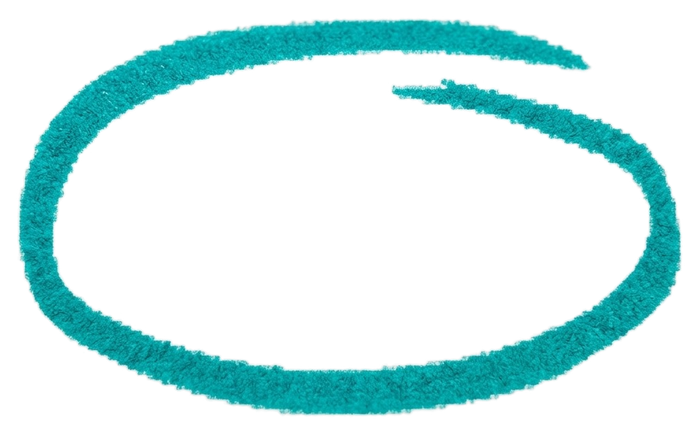
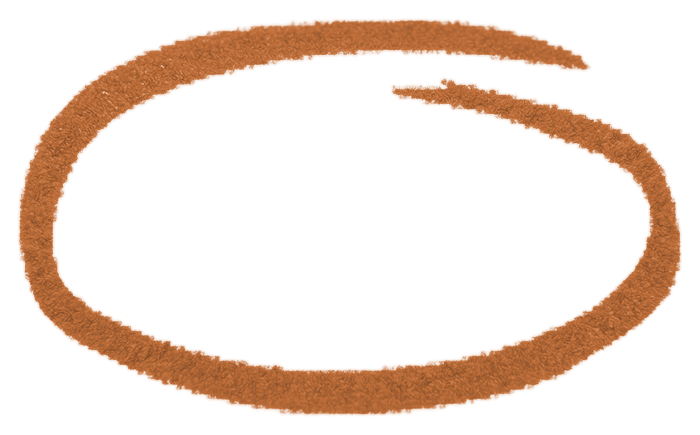
Mi plan: recolorear el círculo de 'SINAPTIX' a dorado
El usuario preguntó si se podía cambiar el color del círculo (foto
real, turquesa) y dejó la elección a Claude ('sorpréndeme'). Se eligió
--gold (#C1703B): ya lo usan 'Objetivo cognitivo' y 'Ajustado a tu
caso' en esta misma pantalla, conecta el círculo con el resto de 'Mi
plan' en vez de un turquesa ajeno a la paleta. Texto sin cambios
(SINAPTIX sigue en --purple-dark).

Recoloreado a nivel de píxel sobre la misma foto: se toma la
luminosidad (L de HLS) de cada píxel del turquesa original -ahí vive
la textura de crayón- y se le aplica el matiz/saturación del dorado,
subiendo el nivel general (+0.13) porque el turquesa de la foto es
más oscuro que el --gold real (si no, salía marrón apagado).

img/ilustraciones-mi-plan/circulo-brand-sinaptix.png reemplazado en
el mismo archivo (mismo recorte/tamaño). css/styles.css: solo se
actualiza el comentario, los offsets del ::after no cambiaron.

Verificado con Playwright (tipografía real, no queda en el repo):
desktop y mobile, buen contraste. 54/54 tests ok.

Actualiza memoria.md y changelog.md.

Changed region(s): [[0.0, 0.0299, 0.99, 0.9563]]

diff --git a/css/styles.css b/css/styles.css
@@ -345,14 +345,24 @@ section.dark .btn-ghost,.hero .btn-ghost{border-color:var(--panel-line)}
 }
 
 /* "SINAPTIX" en el título de "Mi plan" ("Tu progreso con SINAPTIX"): a
-   pedido del usuario, encerrado con un círculo dibujado a mano en color
-   turquesa, en el morado de marca (`--purple-dark`, el mismo que usa
-   "SINAPTIX" en el logo de la nav, `.nav .mark`) en vez del color de
-   texto normal del título. El círculo es la foto de referencia real que
-   trajo el usuario (rayado tipo crayón/marcador sobre papel, no un SVG
-   dibujado a mano por Claude como en el primer intento de esta sesión):
-   se le sacó el fondo de papel (quedó transparente) y se recortó
-   ajustado al trazo, ver `img/ilustraciones-mi-plan/circulo-brand-
+   pedido del usuario, encerrado con un círculo dibujado a mano, en el
+   morado de marca (`--purple-dark`, el mismo que usa "SINAPTIX" en el
+   logo de la nav, `.nav .mark`) en vez del color de texto normal del
+   título. El círculo sale de la foto de referencia real que trajo el
+   usuario (rayado tipo crayón/marcador sobre papel, no un SVG dibujado a
+   mano por Claude como en el primer intento de esta sesión): se le sacó
+   el fondo de papel (quedó transparente), se recortó ajustado al trazo y
+   se recoloreó de turquesa (el color original de la foto) a `--gold`
+   (`#C1703B`) — decisión de diseño de Claude, el usuario pidió elegir el
+   color ("sorpréndeme"): dorado conecta el círculo con el resto de la
+   pantalla (la tarjeta "Objetivo cognitivo" de acá abajo y "Ajustado a
+   tu caso" ya usan ese mismo dorado), cosa que el turquesa —ajeno a la
+   paleta del sitio— no hacía. El recoloreado conserva la textura de
+   crayón real (se tomó la luminosidad de cada píxel del turquesa
+   original y se le aplicó el matiz/saturación del dorado, subiendo el
+   nivel general +0.13 porque el turquesa de la foto es más oscuro que el
+   dorado de marca — sin ese ajuste salía marrón apagado en vez de
+   dorado vivo). Ver `img/ilustraciones-mi-plan/circulo-brand-
    sinaptix.png`. Va como `::after` con background-image (mismo mecanismo
    que `.title-mark` más arriba) en vez de una `<img>` aparte, para que
    se recorte solo a esta palabra sin tocar el resto del `<h2>`. */

diff --git a/memoria.md b/memoria.md
@@ -1149,23 +1149,30 @@ Prioridad 2.
   desktop 1440px, mobile 390px (apila todo en 1 columna) y el modal de
   `index.html` (paso 8 del wizard, sigue apilado, no se rompió).
 - **Título "Tu progreso con SINAPTIX" — palabra "SINAPTIX" encerrada**
-  (sesión 2026-09-16, décimocuarta y décimoquinta tanda): solo esa
+  (sesión 2026-09-16/17, décimocuarta a vigesimonovena tanda): solo esa
   palabra vive en `<span class="miplan-brand-circled">`, con texto en
   `--purple-dark` y un círculo como `::after` con `background-image`.
   **El círculo es una foto real** (recorte de `img/ilustraciones-mi-plan/
-  circulo-brand-sinaptix.png`, un trazo de crayón/marcador turquesa sobre
-  papel al que se le sacó el fondo y quedó con transparencia real —
-  **no** un SVG dibujado a mano por Claude; hubo un intento SVG en la
-  décimocuarta tanda, `svg/deco-circle-brand.svg`, que el usuario pidió
-  reemplazar por esta foto en la décimoquinta porque "se veía simple", y
-  ese SVG ya no existe). El color turquesa es el de la foto, no una
-  variable de `:root` — es una referencia puntual del usuario, no de la
-  paleta de marca. Si algún día cambia el texto de este título o su
-  tamaño de fuente, revisar los offsets de `.miplan-brand-circled::after`
-  (`left/right/top/bottom`, en `%` relativos al propio `<span>`) — están
-  ajustados a ojo para "SINAPTIX" en `Caveat` 700 contra esta imagen
-  puntual, no son un cálculo genérico (si se cambia la imagen por otra
-  con distinto recorte/proporción, hay que volver a ajustarlos).
+  circulo-brand-sinaptix.png`, un trazo de crayón/marcador sobre papel al
+  que se le sacó el fondo y quedó con transparencia real — **no** un SVG
+  dibujado a mano por Claude; hubo un intento SVG en la décimocuarta
+  tanda, `svg/deco-circle-brand.svg`, que el usuario pidió reemplazar por
+  esta foto en la décimoquinta porque "se veía simple", y ese SVG ya no
+  existe). **Color actual: `--gold`** (`#C1703B`, tanda vigesimonovena —
+  el usuario pidió cambiarle el color y dejó la elección a Claude; el
+  original de la foto era turquesa, quedó reemplazado en el mismo
+  archivo). El recoloreado se hace a nivel de píxel conservando la
+  textura real de crayón (luminosidad de cada píxel del color viejo +
+  matiz/saturación del color nuevo, con un ajuste de nivel si el color
+  nuevo es más claro/oscuro que el viejo — ver el script de esa sesión si
+  hay que volver a recolorear esta imagen a otro tono) — el color final
+  **no** es una variable de `:root`, vive fijo en los píxeles del PNG. Si
+  algún día cambia el texto de este título o su tamaño de fuente, revisar
+  los offsets de `.miplan-brand-circled::after` (`left/right/top/
+  bottom`, en `%` relativos al propio `<span>`) — están ajustados a ojo
+  para "SINAPTIX" en `Caveat` 700 contra esta imagen puntual (su recorte/
+  proporción no cambió al recolorearla, así que los offsets siguen
+  valiendo), no son un cálculo genérico.
   **Ojo con `margin` shorthand en `#miPlanConSesion .sec-head-center
   .lam-title`**: en la décimocuarta tanda quedó con `margin:14px 0 6px`,
   que sin querer pisaba el `margin-left/right:auto` que centra el título

diff --git a/changelog.md b/changelog.md
@@ -8,6 +8,40 @@
 > wizard de nutrición, "Mi plan", backend, ilustraciones, etc.) quedó
 > archivado completo en `historico/changelog-2026-09-14.md`.
 
+## 2026-09-17 (vigesimonovena tanda) — Círculo de "SINAPTIX" recoloreado a dorado
+
+Commit: ver hash en el archivo `.patch` generado para esta tanda.
+
+El usuario preguntó si se le podía cambiar el color al círculo de la
+tanda anterior (la foto real, turquesa) y dejó la elección del color en
+manos de Claude ("sorpréndeme"). Se eligió `--gold` (`#C1703B`): es el
+mismo dorado que ya usan la tarjeta "Objetivo cognitivo" y "Ajustado a
+tu caso" en esta misma pantalla, así que conecta el círculo con el resto
+de "Mi plan" — el turquesa original no pertenecía a la paleta del sitio.
+No se tocó el color del texto ("SINAPTIX" sigue en `--purple-dark`) ni
+"Tu progreso con".
+
+- El recoloreado se hizo a nivel de píxel sobre la misma foto (no un
+  filtro CSS): se tomó la luminosidad (L de HLS) de cada píxel del
+  turquesa original — ahí vive la textura de crayón (vetas más claras/
+  oscuras) — y se le aplicó el matiz/saturación del dorado de marca,
+  manteniendo esa L. El turquesa de la foto es bastante más oscuro que
+  el dorado de marca (mediana L~0.34 contra L~0.49 del `--gold` real),
+  así que sin ajuste salía marrón apagado; se subió el nivel general
+  +0.13 (tope 0.92) para que saliera dorado vívido.
+  `img/ilustraciones-mi-plan/circulo-brand-sinaptix.png` se reemplaza en
+  el mismo archivo (mismo recorte/tamaño que la tanda anterior, ver ahí
+  el proceso de sacarle el fondo de papel).
+- `css/styles.css`: solo se actualizó el comentario de
+  `.miplan-brand-circled` explicando la elección de color y el método de
+  recoloreado — la regla en sí (offsets del `::after`) no cambió, es la
+  misma imagen con los mismos bordes.
+
+Verificado con Playwright (tipografía real vía `typeface-caveat`, no
+queda en el repo): desktop y mobile, buen contraste contra el morado del
+texto y contra el fondo de la pantalla. 54/54 tests ok (cambio de imagen
++ comentario CSS, sin lógica).
+
 ## 2026-09-17 (vigesimoctava tanda) — Fondo pastel por tarjeta de Visión, a juego con el color de cada ícono
 
 Commit: ver hash en el archivo `.patch` generado para esta tanda.
